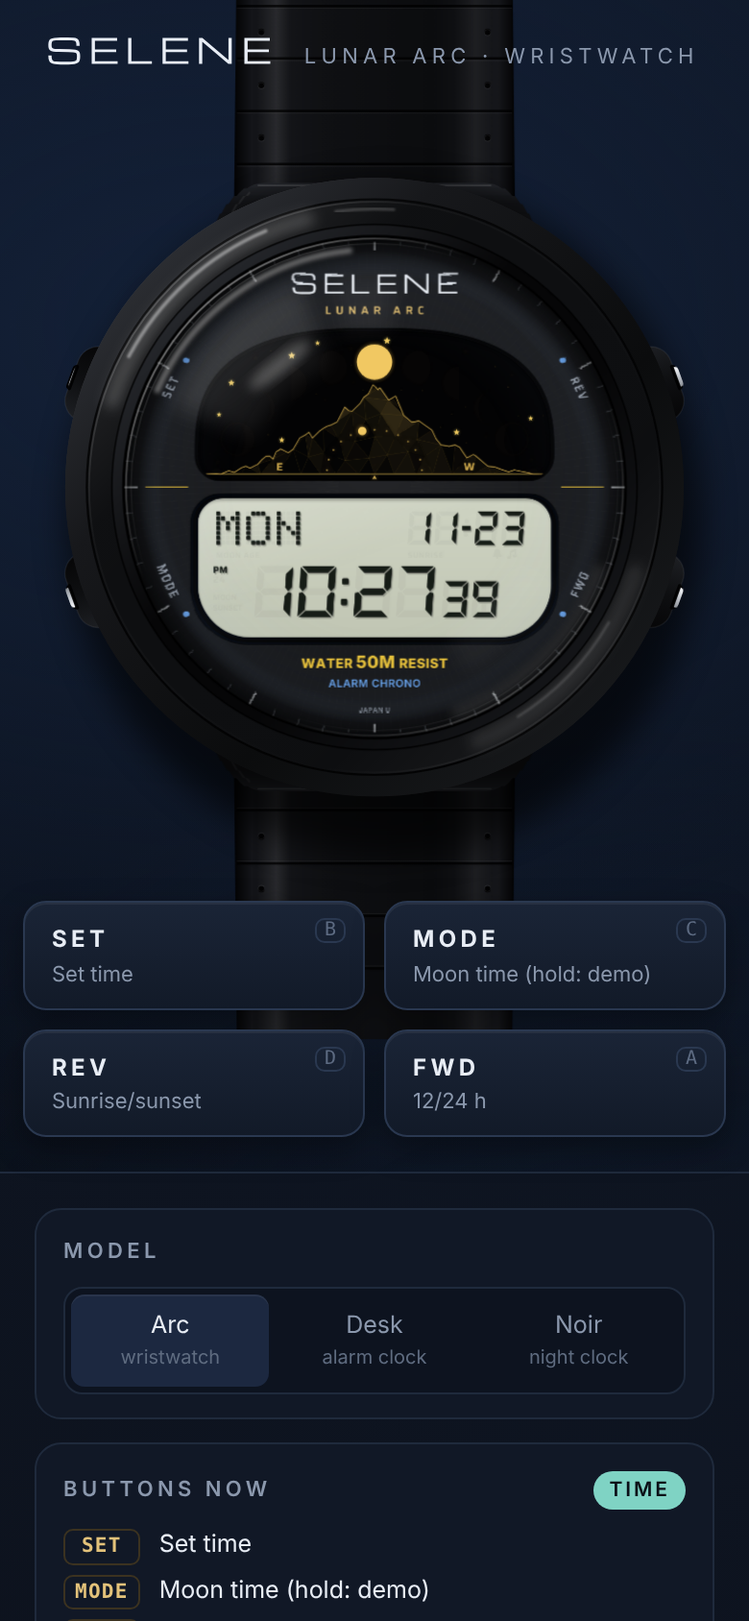
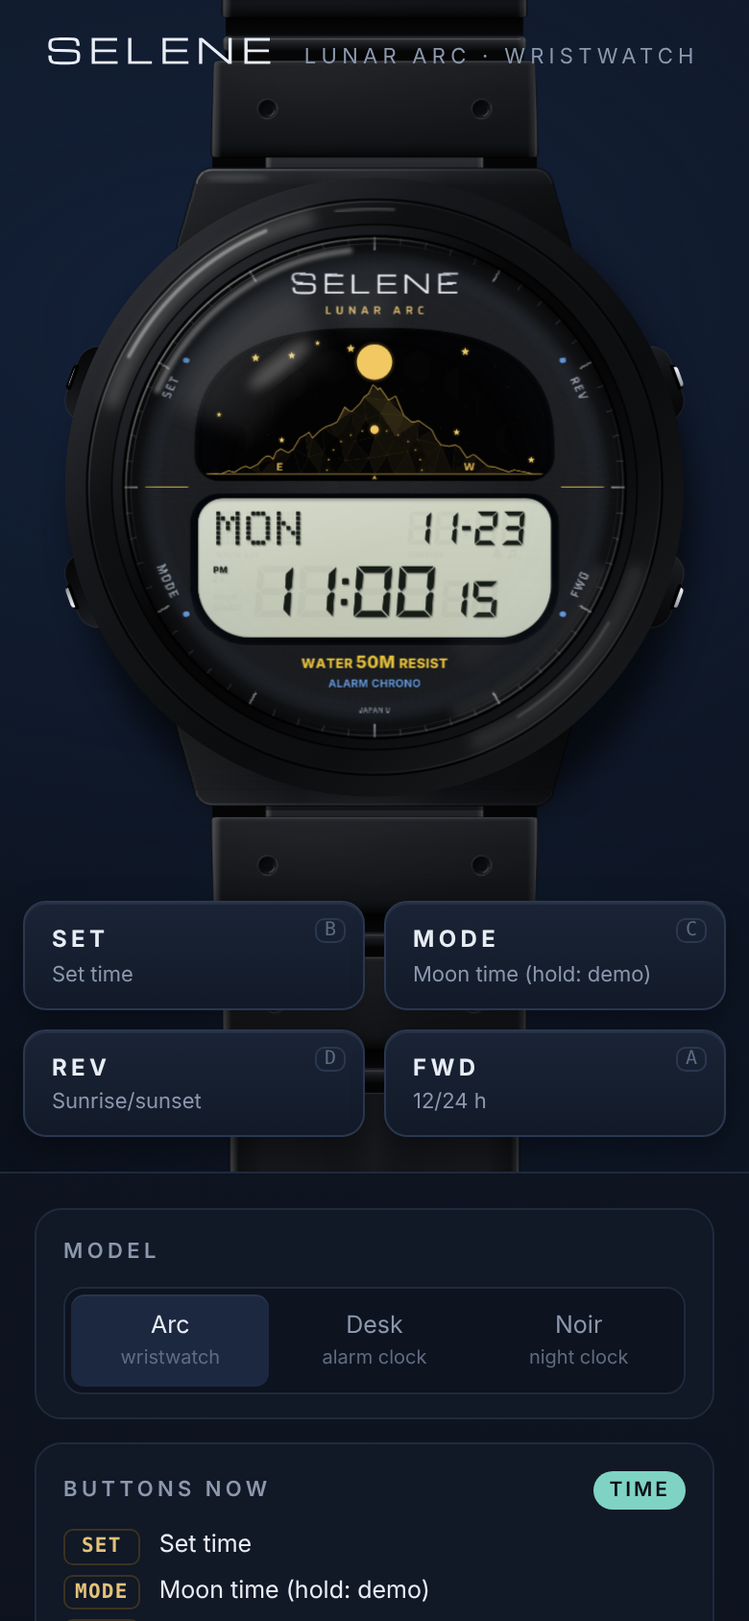
Web watch: lugs and band rebuilt from a photo of the real watch
Lugs:
- broad blocks top and bottom (524 wide, rounded outer corners, sides
  flaring into the case), standing 28 proud of the case like the original
- drawn as 14 thin parallel slices per lug, stepping ~3 px from the case
  (z 0) to the band (z -44); slices are small, clipped to their strip, and
  never intersect other layers (tilted planes broke Chrome's 3D sorting)

Band, per strap from the lug outward: narrow tab, wide dimpled pad, joint
(shadowed channel, rounded rib, thin groove), second pad, joint, flat strap
with round and oval through-holes; lit from above, concave dimples. Widths
and lengths measured off the photo. The watch's drop shadow moves to the
band layer; the band is kept short enough for GPU texture limits and the
stage clips overflow so the page never scrolls.

Claude-Session: https://claude.ai/code/session_013ungtZWuFc7hHZrkieKASF

diff --git a/dist/index.html b/dist/index.html
@@ -26,7 +26,7 @@ header.top{position:absolute;left:24px;top:18px;display:flex;align-items:center;
 header.top svg{height:18px;width:auto}
 header.top .tag{font-size:11px;letter-spacing:.24em;color:var(--mute);text-transform:uppercase}
 /* ------------------------------------------------ stage */
-.stage{position:relative;display:flex;flex-direction:column;align-items:center;justify-content:center;padding:64px 24px 28px;min-height:100vh;gap:18px}
+.stage{position:relative;display:flex;flex-direction:column;align-items:center;justify-content:center;padding:64px 24px 28px;min-height:100vh;gap:18px;overflow:hidden}
 .device-wrap{perspective:1400px;width:min(100%,560px)}
 .device{position:relative;transform-style:preserve-3d;transition:transform .5s cubic-bezier(.2,.7,.2,1);will-change:transform}
 .device svg{display:block;width:100%;height:auto;overflow:visible}
@@ -2028,49 +2028,139 @@ ${svgOpen('segs', vb, 'aria-hidden="true"')}<defs>${clip('segClip')}
   }
 
 
+  // ---- band and lugs, after the original watch (measured off a photo; units are the drawing's, case radius 440) ----
+  const BAND_Z = 44; // px the band sits behind the case; matches .device .band in app.css
+  // Each strap, from the lug outward: a narrow tab, a wide dimpled pad, a joint, a second pad, a joint, the flat
+  // strap. hw: half-width at the lug end and the far end; dx: dimple offset from the centre line. Joints are a
+  // shadowed channel, a rounded rib and a thin groove, in that order down the picture on both straps (light from above).
+  const STRAP = [
+    { k: 'tab', len: 16, hw: [160, 160] },
+    { k: 'pad', len: 142, hw: [240, 236], dx: 157 },
+    { k: 'joint', len: 63 },
+    { k: 'pad', len: 136, hw: [224, 222], dx: 146 },
+    { k: 'joint', len: 63 },
+    { k: 'flat', len: 560, hw: [213, 213] }, // enough to reach the edge of a tall window; kept short for the GPU
+  ];
+  const LUG = { tip: 312, base: 452 }; // top lug: outer edge (at the band's depth), and where it meets the case (z 0)
+
+  // a concave dimple lit from the upper left: shadowed upper-left wall, lit lower-right wall, a light outer rim
+  const dimpleSvg = (x, y) => `<circle cx="${x}" cy="${y}" r="14.5" fill="none" stroke="url(#dimRim)" stroke-width="2.2"/><circle cx="${x}" cy="${y}" r="13" fill="url(#dimG)"/>
+<circle cx="${x + 1.2}" cy="${y + 1.2}" r="6.5" fill="#0b0c0e"/><path d="M${x + 3} ${y + 10.3}A10.8 10.8 0 0 0 ${x + 10.3} ${y + 3}" fill="none" stroke="#fff" stroke-opacity=".2" stroke-width="1.6" stroke-linecap="round"/>`;
+
+  /** One strap. edge: y of the lug's outer edge; dir: -1 runs up, +1 runs down; holes: [distance, kind] on the flat part.
+   *  Returns [art, through-hole mask shapes]. */
+  function strapSvg(cx, edge, dir, holes) {
+    let y = edge, out = '', mask = '';
+    const els = STRAP.map((e) => { const a = y; y += dir * e.len; return { ...e, y0: Math.min(a, y), y1: Math.max(a, y) }; });
+    els.forEach((e, i) => { if (e.k === 'joint') e.hw = [Math.min(els[i - 1].hw[1], els[i + 1].hw[0])]; });
+    const X = (v) => +(cx + v).toFixed(1), line = (x0, x1, yy, o, w) => `<path d="M${X(x0)} ${yy}H${X(x1)}" stroke="#fff" stroke-opacity="${o}" stroke-width="${w}"/>`;
+    for (const e of els) {
+      const n = e.hw.length - 1, top = dir < 0 ? e.hw[n] : e.hw[0], bot = dir < 0 ? e.hw[0] : e.hw[n], y0 = e.y0, y1 = e.y1;
+      if (e.k === 'tab') {
+        // the tab runs on under the lug; beside it, between the pad and the lug, is the shadowed recess under the lug
+        const a = dir < 0 ? y0 : y0 - 18, b = dir < 0 ? y1 + 18 : y1, wide = els[1].hw[0] - 2;
+        out += `<rect x="${X(-wide)}" y="${y0}" width="${2 * wide}" height="${e.len}" fill="#050506"/>
+<rect x="${X(-top)}" y="${a}" width="${2 * top}" height="${b - a}" fill="url(#tabG)"/><rect x="${X(-top)}" y="${a}" width="${2 * top}" height="${b - a}" fill="url(#bandSide)"/>`;
+        if (dir > 0) out += `<rect x="${X(-top)}" y="${edge}" width="${2 * top}" height="6" fill="#000" fill-opacity=".45"/>`;
+      } else if (e.k === 'pad') {
+        const r = 7, d = `M${X(-top + r)} ${y0}H${X(top - r)}Q${X(top)} ${y0} ${X(top)} ${y0 + r}L${X(bot)} ${y1 - r}Q${X(bot)} ${y1} ${X(bot - r)} ${y1}H${X(-bot + r)}Q${X(-bot)} ${y1} ${X(-bot)} ${y1 - r}L${X(-top)} ${y0 + r}Q${X(-top)} ${y0} ${X(-top + r)} ${y0}Z`;
+        out += `<path d="${d}" fill="url(#padG)"/><path d="${d}" fill="url(#padSheen)"/><path d="${d}" fill="url(#bandSide)"/>${line(-top + 8, top - 8, y0 + 1.6, 0.16, 1.5)}
+<path d="${d}" fill="none" stroke="#000" stroke-opacity=".55" stroke-width="1.2"/>${dimpleSvg(X(-e.dx), (y0 + y1) / 2)}${dimpleSvg(X(e.dx), (y0 + y1) / 2)}`;
+      } else if (e.k === 'joint') {
+        const w = e.hw[0];
+        out += `<rect x="${X(-w + 6)}" y="${y0}" width="${2 * w - 12}" height="27.5" fill="url(#chanG)"/>
+<rect x="${X(-w + 1)}" y="${y0 + 27}" width="${2 * w - 2}" height="22" rx="9" fill="url(#ribG)"/><rect x="${X(-w + 1)}" y="${y0 + 27}" width="${2 * w - 2}" height="22" rx="9" fill="url(#bandSide)"/>
+${line(-w + 10, w - 10, y0 + 31.5, 0.2, 1.5)}<rect x="${X(-w + 5)}" y="${y0 + 48.5}" width="${2 * w - 10}" height="${y1 - y0 - 48.5}" fill="#060607"/>`;
+      } else { // flat strap: a slightly convex surface, with a soft sheen and the holes
+        const w = e.hw[0];
+        out += `<rect x="${X(-w)}" y="${y0}" width="${2 * w}" height="${y1 - y0}" rx="8" fill="url(#flatG)"/><rect x="${X(-w)}" y="${y0}" width="${2 * w}" height="${y1 - y0}" rx="8" fill="url(#bandSide)"/>
+<rect x="${X(-w)}" y="${y0}" width="${2 * w}" height="${y1 - y0}" rx="8" fill="none" stroke="#000" stroke-opacity=".55" stroke-width="1.2"/>`;
+        if (dir > 0) out += line(-w + 8, w - 8, y0 + 1.6, 0.11, 1.4);
+        for (const [dist, kind] of holes) {
+          const hy = edge + dir * dist, rx = kind === 'oval' ? 50 : 19, ry = kind === 'oval' ? 28 : 19;
+          for (const hx of kind === 'oval' ? [0] : [-119, 119]) {
+            mask += `<ellipse cx="${X(hx)}" cy="${hy}" rx="${rx}" ry="${ry}" fill="#000"/>`;
+            out += `<ellipse cx="${X(hx)}" cy="${hy}" rx="${rx + 2}" ry="${ry + 2}" fill="none" stroke="#000" stroke-opacity=".55" stroke-width="3"/>
+<path d="M${X(hx - rx * 0.82)} ${hy + ry * 0.62}A${rx + 2} ${ry + 2} 0 0 0 ${X(hx + rx * 0.82)} ${hy + ry * 0.62}" fill="none" stroke="#fff" stroke-opacity=".14" stroke-width="1.8" stroke-linecap="round"/>`;
+          }
+        }
+      }
+    }
+    return [out, mask];
+  }
+
+  function bandLayer(vb, cx, cy) {
+    const [t, tm] = strapSvg(cx, LUG.tip, -1, [[671, 'round']]);
+    const [b, bm] = strapSvg(cx, 2 * cy - LUG.tip, 1, [[679, 'round'], [763, 'oval'], [923, 'oval']]);
+    const reach = STRAP.reduce((n, e) => n + e.len, 0) + 4, my = LUG.tip - reach, mh = 2 * cy - 2 * LUG.tip + 2 * reach;
+    return `${svgOpen('band', vb, 'aria-hidden="true"')}<defs>
+<filter id="bandSoft" x="-30%" y="-30%" width="160%" height="160%"><feGaussianBlur stdDeviation="24"/></filter>
+<linearGradient id="padG" x1="0" y1="0" x2="0" y2="1"><stop offset="0" stop-color="#2b2d32"/><stop offset=".055" stop-color="#1d1e22"/><stop offset=".3" stop-color="#18191d"/><stop offset=".86" stop-color="#121316"/><stop offset=".94" stop-color="#0c0d0f"/><stop offset="1" stop-color="#060607"/></linearGradient>
+<radialGradient id="padSheen" cx=".3" cy=".25" r=".75"><stop offset="0" stop-color="#fff" stop-opacity=".035"/><stop offset="1" stop-color="#fff" stop-opacity="0"/></radialGradient>
+<linearGradient id="dimG" x1="0" y1="0" x2="1" y2="1"><stop offset="0" stop-color="#030304"/><stop offset=".55" stop-color="#0d0e10"/><stop offset="1" stop-color="#2a2c31"/></linearGradient>
+<linearGradient id="dimRim" x1="0" y1="0" x2="1" y2="1"><stop offset="0" stop-color="#fff" stop-opacity=".1"/><stop offset=".5" stop-color="#fff" stop-opacity=".02"/><stop offset="1" stop-color="#000" stop-opacity=".5"/></linearGradient>
+<linearGradient id="bandSide" x1="0" x2="1"><stop offset="0" stop-color="#000" stop-opacity=".6"/><stop offset=".011" stop-color="#fff" stop-opacity=".17"/><stop offset=".032" stop-color="#fff" stop-opacity="0"/><stop offset=".968" stop-color="#fff" stop-opacity="0"/><stop offset=".989" stop-color="#fff" stop-opacity=".1"/><stop offset="1" stop-color="#000" stop-opacity=".6"/></linearGradient>
+<linearGradient id="chanG" x1="0" y1="0" x2="0" y2="1"><stop offset="0" stop-color="#030304"/><stop offset=".7" stop-color="#070708"/><stop offset="1" stop-color="#0c0d0f"/></linearGradient>
+<linearGradient id="ribG" x1="0" y1="0" x2="0" y2="1"><stop offset="0" stop-color="#1c1d21"/><stop offset=".22" stop-color="#2e3035"/><stop offset=".5" stop-color="#1c1d21"/><stop offset="1" stop-color="#08090a"/></linearGradient>
+<linearGradient id="tabG" x1="0" y1="0" x2="0" y2="1"><stop offset="0" stop-color="#2c2e33"/><stop offset="1" stop-color="#1e2024"/></linearGradient>
+<linearGradient id="flatG" x1="0" x2="1"><stop offset="0" stop-color="#0d0e10"/><stop offset=".12" stop-color="#17181c"/><stop offset=".42" stop-color="#141519"/><stop offset=".5" stop-color="#191a1e"/><stop offset=".58" stop-color="#141519"/><stop offset=".88" stop-color="#17181c"/><stop offset="1" stop-color="#0d0e10"/></linearGradient>
+${lugArt(cx, cy, 1)}${lugArt(cx, cy, -1)}
+<mask id="bandHoles" maskUnits="userSpaceOnUse" x="${cx - 250}" y="${my}" width="500" height="${mh}"><rect x="${cx - 250}" y="${my}" width="500" height="${mh}" fill="#fff"/>${tm}${bm}</mask>
+</defs>
+<ellipse cx="${cx + 14}" cy="${cy + 46}" rx="452" ry="480" fill="#000" opacity=".6" filter="url(#bandSoft)"/>
+<g mask="url(#bandHoles)">${t}${b}</g></svg>`;
+  }
+
+  /** One lug's artwork (s: 1 = top, -1 = bottom, mirrored about the case centre), as a <g> the depth slices reuse.
+   *  Only the part outside the case is drawn. */
+  function lugArt(cx, cy, s) {
+    const id = s > 0 ? 't' : 'b', Y = (y) => +(cy + s * (y - cy)).toFixed(1);
+    const d = `M207 ${Y(470)}L218 ${Y(438)}L238 ${Y(336)}C238 ${Y(322.7)} 248.7 ${Y(312)} 262 ${Y(312)}H738C751.3 ${Y(312)} 762 ${Y(322.7)} 762 ${Y(336)}L782 ${Y(438)}L793 ${Y(470)}Z`;
+    const edge = `M241 ${Y(338)}C241 ${Y(325.3)} 250.4 ${Y(315)} 262 ${Y(315)}H738C749.6 ${Y(315)} 759 ${Y(325.3)} 759 ${Y(338)}`;
+    // the top lug's face tilts toward the light and reads lighter; the bottom one tilts away
+    const face = s > 0 ? ['#26282d', '#17181b', '#0c0d0f'] : ['#16171a', '#101114', '#0a0b0c'];
+    return `<clipPath id="lugOut${id}"><path clip-rule="evenodd" d="M0 -200H1000V1800H0ZM${cx - 437} ${cy}a437 437 0 1 0 874 0a437 437 0 1 0 -874 0Z"/></clipPath>
+<linearGradient id="lugF${id}" gradientUnits="userSpaceOnUse" x1="0" y1="${Y(312)}" x2="0" y2="${Y(470)}"><stop offset="0" stop-color="${face[0]}"/><stop offset=".2" stop-color="${face[1]}"/><stop offset="1" stop-color="${face[2]}"/></linearGradient>
+<linearGradient id="lugH${id}" gradientUnits="userSpaceOnUse" x1="238" y1="0" x2="762" y2="0"><stop offset="0" stop-color="#fff" stop-opacity=".06"/><stop offset=".3" stop-color="#fff" stop-opacity=".012"/><stop offset=".7" stop-color="#000" stop-opacity=".1"/><stop offset="1" stop-color="#000" stop-opacity=".28"/></linearGradient>
+<linearGradient id="lugE${id}" gradientUnits="userSpaceOnUse" x1="238" y1="0" x2="762" y2="0"><stop offset="0" stop-color="#fff" stop-opacity="${s > 0 ? 0.34 : 0.13}"/><stop offset=".45" stop-color="#fff" stop-opacity="${s > 0 ? 0.13 : 0.05}"/><stop offset="1" stop-color="#fff" stop-opacity="${s > 0 ? 0.07 : 0.03}"/></linearGradient>
+<filter id="lugSoft${id}" x="-50%" y="-200%" width="200%" height="500%"><feGaussianBlur stdDeviation="3"/></filter>
+<g id="lugArt${id}" clip-path="url(#lugOut${id})">
+<path d="${d}" fill="url(#lugF${id})"/><path d="${d}" fill="url(#lugH${id})"/>
+<path d="${edge}" fill="none" stroke="url(#lugE${id})" stroke-width="1.7" stroke-linecap="round"/>
+<path d="M240.4 ${Y(342)}L220.6 ${Y(434)}" stroke="#fff" stroke-opacity="${s > 0 ? 0.09 : 0.04}" stroke-width="2" stroke-linecap="round"/>
+${s > 0 ? `<ellipse cx="300" cy="${Y(327)}" rx="46" ry="6" fill="#fff" fill-opacity=".11" filter="url(#lugSoft${id})"/>` : ''}
+<path d="${d}" fill="none" stroke="#000" stroke-opacity=".6" stroke-width="1.2"/></g>`;
+  }
+  /** The lugs as thin horizontal slices, each a small layer a little deeper than the one nearer the case: depth runs
+   *  from the case (z 0, at LUG.base) to the band (z -BAND_Z, at the lug's outer edge) in ~3 px steps, too fine to see.
+   *  Parallel slices never intersect the other layers, which keeps every browser's 3D sorting simple. */
+  function lugSlices(vb, cy) {
+    const [, vy, , vh] = vb.split(' ').map(Number), N = 14, y0 = LUG.tip - 3, h = (LUG.base - y0) / N;
+    let out = '';
+    for (let k = 0; k < N; k++) {
+      const a = y0 + k * h, z = -BAND_Z * Math.min(1, (LUG.base - (a + h / 2)) / (LUG.base - LUG.tip));
+      for (const [id, top] of [['t', a], ['b', 2 * cy - a - h]]) {
+        const t = top - 0.6, hh = h + 1.2; // a little overlap hides the seams between slices
+        out += `<svg class="L lug" viewBox="195 ${t.toFixed(2)} 610 ${hh.toFixed(2)}" xmlns="http://www.w3.org/2000/svg" aria-hidden="true" style="left:19.5%;top:${((t - vy) / vh * 100).toFixed(4)}%;width:61%;height:${(hh / vh * 100).toFixed(4)}%;overflow:hidden;transform:translateZ(${z.toFixed(2)}px)"><use href="#lugArt${id}"/></svg>`;
+      }
+    }
+    return out;
+  }
+
   function watchLayers(face) {
     const vb = '0 240 1000 1080', cx = 500, cy = 780, Rc = 440, Ra = 356, Rf = 368, Rs = Rc - 30;
-    // band in the original's style: smooth glossy resin, broad segments with bevelled joints and a small dimple near
-    // each edge of every segment (drawn for the top strap; the bottom one is its mirror image)
-    let joints = '', jointHi = '', dimples = '';
-    for (const y of [74, 151, 228, 306]) { joints += `M298 ${y}H702`; jointHi += `M298 ${y + 3.2}H702`; }
-    for (const y of [36, 112, 190, 267]) for (const x of [334, 666]) dimples += `<circle cx="${x}" cy="${y}" r="4.6" fill="#030304"/><circle cx="${x}" cy="${y + 1.2}" r="4.6" fill="none" stroke="#fff" stroke-opacity=".09" stroke-width="1.1"/>`;
-    const strap = `<path d="M298 -30H702L706 360H294Z" fill="url(#strapG)"/>
-<path d="M298 -30H702L706 360H294Z" fill="url(#strapGloss)"/>
-<path d="${joints}" stroke="#000" stroke-opacity=".75" stroke-width="3.6"/>
-<path d="${jointHi}" stroke="#fff" stroke-opacity=".07" stroke-width="1.4"/>
-${dimples}`;
-    const lugs = `<path d="M244 610C244 462 274 374 312 344Q323 335 338 335H662Q677 335 688 344C726 374 756 462 756 610Z" fill="url(#lugG)"/>
-<path d="M330 338.5H670" stroke="#fff" stroke-opacity=".13" stroke-width="2.5" stroke-linecap="round"/>
-<path d="M262 520C270 440 292 380 318 352" fill="none" stroke="#fff" stroke-opacity=".07" stroke-width="3" stroke-linecap="round"/>`;
     const Rm = (Rs - 2 + Ra + 16) / 2, Wm = Rs - 2 - (Ra + 16);
-    // the band is its own layer, a little behind the displays, so it slides the most as the watch tilts
-    const band = `${svgOpen('band', vb, 'aria-hidden="true"')}<defs>
-<linearGradient id="strapG" x1="0" x2="1"><stop offset="0" stop-color="#030304"/><stop offset=".06" stop-color="#141519"/><stop offset=".3" stop-color="#0c0d10"/><stop offset=".7" stop-color="#0b0c0e"/><stop offset=".94" stop-color="#16171b"/><stop offset="1" stop-color="#030304"/></linearGradient>
-<linearGradient id="strapGloss" x1="0" x2="1"><stop offset=".08" stop-color="#fff" stop-opacity="0"/><stop offset=".15" stop-color="#fff" stop-opacity=".1"/><stop offset=".2" stop-color="#fff" stop-opacity=".02"/><stop offset=".78" stop-color="#fff" stop-opacity="0"/><stop offset=".86" stop-color="#fff" stop-opacity=".05"/><stop offset=".92" stop-color="#fff" stop-opacity="0"/></linearGradient>
-</defs><g>${strap}</g><g transform="translate(0 ${2 * cy}) scale(1 -1)">${strap}</g></svg>`;
-    // lugs: drawn in slices across the strip where they meet the band, each a little deeper toward the band, so the
-    // lugs carry the parallax from the case (0) down to the band (-44). Slices overlap by a few units to hide seams.
-    const lugCuts = [[300, 348, -40], [345, 362, -31], [359, 376, -22], [373, 392, -13], [389, 430, -5]];
-    const lugLayers = lugCuts.map(([y0, y1, z], k) => `${svgOpen('lug', vb, `aria-hidden="true" style="transform:translateZ(${z}px)"`)}<defs>
-<linearGradient id="lugG${k}" x1="0" y1="0" x2="0" y2="1"><stop offset="0" stop-color="#24262b"/><stop offset=".12" stop-color="#131417"/><stop offset="1" stop-color="#0a0b0d"/></linearGradient>
-<clipPath id="lugCut${k}"><rect x="0" y="${y0}" width="1000" height="${y1 - y0}"/><rect x="0" y="${2 * cy - y1}" width="1000" height="${y1 - y0}"/></clipPath></defs>
-<g clip-path="url(#lugCut${k})"><g>${lugs.replace(/url\(#lugG\)/g, `url(#lugG${k})`)}</g><g transform="translate(0 ${2 * cy}) scale(1 -1)">${lugs.replace(/url\(#lugG\)/g, `url(#lugG${k})`)}</g></g></svg>`).join('');
-    return `${band}${lugLayers}${svgOpen('body', vb, 'aria-label="Selene Arc watch"')}<defs>
+    return `${bandLayer(vb, cx, cy)}${lugSlices(vb, cy)}${svgOpen('body', vb, 'aria-label="Selene Arc watch"')}<defs>
 ${holeClip(cx, cy, Ra + 9)}
-<filter id="soft" x="-30%" y="-30%" width="160%" height="160%"><feGaussianBlur stdDeviation="24"/></filter>
 <filter id="bb2" x="-20%" y="-20%" width="140%" height="140%"><feGaussianBlur stdDeviation="1.6"/></filter>
 <filter id="bb9" x="-30%" y="-30%" width="160%" height="160%"><feGaussianBlur stdDeviation="9"/></filter>
 <linearGradient id="slopeG" x1="0" y1="0" x2="1" y2="1"><stop offset="0" stop-color="#3a3d43"/><stop offset=".3" stop-color="#17181b"/><stop offset=".62" stop-color="#0b0c0d"/><stop offset="1" stop-color="#1c1e21"/></linearGradient>
-<linearGradient id="strapG" x1="0" x2="1"><stop offset="0" stop-color="#040405"/><stop offset=".07" stop-color="#17191d"/><stop offset=".3" stop-color="#101114"/><stop offset=".7" stop-color="#0f1013"/><stop offset=".93" stop-color="#191b1f"/><stop offset="1" stop-color="#040405"/></linearGradient>
-<linearGradient id="lugG" x1="0" y1="0" x2="0" y2="1"><stop offset="0" stop-color="#24262b"/><stop offset=".12" stop-color="#131417"/><stop offset="1" stop-color="#0a0b0d"/></linearGradient>
 <linearGradient id="guardG" x1="0" y1="0" x2="0" y2="1"><stop offset="0" stop-color="#1d1f23"/><stop offset=".5" stop-color="#0e0f11"/><stop offset="1" stop-color="#060607"/></linearGradient>
 <radialGradient id="caseG" cx="38%" cy="28%" r="80%"><stop offset="0" stop-color="#26282d"/><stop offset=".55" stop-color="#111215"/><stop offset="1" stop-color="#060607"/></radialGradient>
 <linearGradient id="chamG" x1="0" y1="0" x2="1" y2="1"><stop offset="0" stop-color="#fff" stop-opacity=".3"/><stop offset=".3" stop-color="#fff" stop-opacity=".03"/><stop offset=".7" stop-color="#fff" stop-opacity="0"/><stop offset="1" stop-color="#fff" stop-opacity=".12"/></linearGradient>
 <linearGradient id="glossG" x1="0" y1="0" x2="1" y2="1"><stop offset="0" stop-color="#fff" stop-opacity=".17"/><stop offset=".28" stop-color="#fff" stop-opacity=".015"/><stop offset=".72" stop-color="#fff" stop-opacity=".01"/><stop offset="1" stop-color="#fff" stop-opacity=".09"/></linearGradient>
 <linearGradient id="steelV" x1="0" y1="0" x2="0" y2="1"><stop offset="0" stop-color="#f4f6f8"/><stop offset=".45" stop-color="#aab1bb"/><stop offset="1" stop-color="#565c66"/></linearGradient>
 </defs><g clip-path="url(#bodyHole)">
-<ellipse cx="${cx + 14}" cy="${cy + 46}" rx="452" ry="480" fill="#000" opacity=".6" filter="url(#soft)"/>
 ${pusher('B', 200, cx, cy, Rc, 1.5)}${pusher('C', 160, cx, cy, Rc)}${pusher('D', -20, cx, cy, Rc)}${pusher('A', 20, cx, cy, Rc)}
 <circle cx="${cx}" cy="${cy}" r="${Rc}" fill="url(#caseG)"/>
 <circle cx="${cx}" cy="${cy}" r="${Rc - 1.5}" fill="none" stroke="url(#chamG)" stroke-width="3"/>

diff --git a/web/app.js b/web/app.js
@@ -179,49 +179,139 @@ ${svgOpen('segs', vb, 'aria-hidden="true"')}<defs>${clip('segClip')}
   }
 
 
+  // ---- band and lugs, after the original watch (measured off a photo; units are the drawing's, case radius 440) ----
+  const BAND_Z = 44; // px the band sits behind the case; matches .device .band in app.css
+  // Each strap, from the lug outward: a narrow tab, a wide dimpled pad, a joint, a second pad, a joint, the flat
+  // strap. hw: half-width at the lug end and the far end; dx: dimple offset from the centre line. Joints are a
+  // shadowed channel, a rounded rib and a thin groove, in that order down the picture on both straps (light from above).
+  const STRAP = [
+    { k: 'tab', len: 16, hw: [160, 160] },
+    { k: 'pad', len: 142, hw: [240, 236], dx: 157 },
+    { k: 'joint', len: 63 },
+    { k: 'pad', len: 136, hw: [224, 222], dx: 146 },
+    { k: 'joint', len: 63 },
+    { k: 'flat', len: 560, hw: [213, 213] }, // enough to reach the edge of a tall window; kept short for the GPU
+  ];
+  const LUG = { tip: 312, base: 452 }; // top lug: outer edge (at the band's depth), and where it meets the case (z 0)
+
+  // a concave dimple lit from the upper left: shadowed upper-left wall, lit lower-right wall, a light outer rim
+  const dimpleSvg = (x, y) => `<circle cx="${x}" cy="${y}" r="14.5" fill="none" stroke="url(#dimRim)" stroke-width="2.2"/><circle cx="${x}" cy="${y}" r="13" fill="url(#dimG)"/>
+<circle cx="${x + 1.2}" cy="${y + 1.2}" r="6.5" fill="#0b0c0e"/><path d="M${x + 3} ${y + 10.3}A10.8 10.8 0 0 0 ${x + 10.3} ${y + 3}" fill="none" stroke="#fff" stroke-opacity=".2" stroke-width="1.6" stroke-linecap="round"/>`;
+
+  /** One strap. edge: y of the lug's outer edge; dir: -1 runs up, +1 runs down; holes: [distance, kind] on the flat part.
+   *  Returns [art, through-hole mask shapes]. */
+  function strapSvg(cx, edge, dir, holes) {
+    let y = edge, out = '', mask = '';
+    const els = STRAP.map((e) => { const a = y; y += dir * e.len; return { ...e, y0: Math.min(a, y), y1: Math.max(a, y) }; });
+    els.forEach((e, i) => { if (e.k === 'joint') e.hw = [Math.min(els[i - 1].hw[1], els[i + 1].hw[0])]; });
+    const X = (v) => +(cx + v).toFixed(1), line = (x0, x1, yy, o, w) => `<path d="M${X(x0)} ${yy}H${X(x1)}" stroke="#fff" stroke-opacity="${o}" stroke-width="${w}"/>`;
+    for (const e of els) {
+      const n = e.hw.length - 1, top = dir < 0 ? e.hw[n] : e.hw[0], bot = dir < 0 ? e.hw[0] : e.hw[n], y0 = e.y0, y1 = e.y1;
+      if (e.k === 'tab') {
+        // the tab runs on under the lug; beside it, between the pad and the lug, is the shadowed recess under the lug
+        const a = dir < 0 ? y0 : y0 - 18, b = dir < 0 ? y1 + 18 : y1, wide = els[1].hw[0] - 2;
+        out += `<rect x="${X(-wide)}" y="${y0}" width="${2 * wide}" height="${e.len}" fill="#050506"/>
+<rect x="${X(-top)}" y="${a}" width="${2 * top}" height="${b - a}" fill="url(#tabG)"/><rect x="${X(-top)}" y="${a}" width="${2 * top}" height="${b - a}" fill="url(#bandSide)"/>`;
+        if (dir > 0) out += `<rect x="${X(-top)}" y="${edge}" width="${2 * top}" height="6" fill="#000" fill-opacity=".45"/>`;
+      } else if (e.k === 'pad') {
+        const r = 7, d = `M${X(-top + r)} ${y0}H${X(top - r)}Q${X(top)} ${y0} ${X(top)} ${y0 + r}L${X(bot)} ${y1 - r}Q${X(bot)} ${y1} ${X(bot - r)} ${y1}H${X(-bot + r)}Q${X(-bot)} ${y1} ${X(-bot)} ${y1 - r}L${X(-top)} ${y0 + r}Q${X(-top)} ${y0} ${X(-top + r)} ${y0}Z`;
+        out += `<path d="${d}" fill="url(#padG)"/><path d="${d}" fill="url(#padSheen)"/><path d="${d}" fill="url(#bandSide)"/>${line(-top + 8, top - 8, y0 + 1.6, 0.16, 1.5)}
+<path d="${d}" fill="none" stroke="#000" stroke-opacity=".55" stroke-width="1.2"/>${dimpleSvg(X(-e.dx), (y0 + y1) / 2)}${dimpleSvg(X(e.dx), (y0 + y1) / 2)}`;
+      } else if (e.k === 'joint') {
+        const w = e.hw[0];
+        out += `<rect x="${X(-w + 6)}" y="${y0}" width="${2 * w - 12}" height="27.5" fill="url(#chanG)"/>
+<rect x="${X(-w + 1)}" y="${y0 + 27}" width="${2 * w - 2}" height="22" rx="9" fill="url(#ribG)"/><rect x="${X(-w + 1)}" y="${y0 + 27}" width="${2 * w - 2}" height="22" rx="9" fill="url(#bandSide)"/>
+${line(-w + 10, w - 10, y0 + 31.5, 0.2, 1.5)}<rect x="${X(-w + 5)}" y="${y0 + 48.5}" width="${2 * w - 10}" height="${y1 - y0 - 48.5}" fill="#060607"/>`;
+      } else { // flat strap: a slightly convex surface, with a soft sheen and the holes
+        const w = e.hw[0];
+        out += `<rect x="${X(-w)}" y="${y0}" width="${2 * w}" height="${y1 - y0}" rx="8" fill="url(#flatG)"/><rect x="${X(-w)}" y="${y0}" width="${2 * w}" height="${y1 - y0}" rx="8" fill="url(#bandSide)"/>
+<rect x="${X(-w)}" y="${y0}" width="${2 * w}" height="${y1 - y0}" rx="8" fill="none" stroke="#000" stroke-opacity=".55" stroke-width="1.2"/>`;
+        if (dir > 0) out += line(-w + 8, w - 8, y0 + 1.6, 0.11, 1.4);
+        for (const [dist, kind] of holes) {
+          const hy = edge + dir * dist, rx = kind === 'oval' ? 50 : 19, ry = kind === 'oval' ? 28 : 19;
+          for (const hx of kind === 'oval' ? [0] : [-119, 119]) {
+            mask += `<ellipse cx="${X(hx)}" cy="${hy}" rx="${rx}" ry="${ry}" fill="#000"/>`;
+            out += `<ellipse cx="${X(hx)}" cy="${hy}" rx="${rx + 2}" ry="${ry + 2}" fill="none" stroke="#000" stroke-opacity=".55" stroke-width="3"/>
+<path d="M${X(hx - rx * 0.82)} ${hy + ry * 0.62}A${rx + 2} ${ry + 2} 0 0 0 ${X(hx + rx * 0.82)} ${hy + ry * 0.62}" fill="none" stroke="#fff" stroke-opacity=".14" stroke-width="1.8" stroke-linecap="round"/>`;
+          }
+        }
+      }
+    }
+    return [out, mask];
+  }
+
+  function bandLayer(vb, cx, cy) {
+    const [t, tm] = strapSvg(cx, LUG.tip, -1, [[671, 'round']]);
+    const [b, bm] = strapSvg(cx, 2 * cy - LUG.tip, 1, [[679, 'round'], [763, 'oval'], [923, 'oval']]);
+    const reach = STRAP.reduce((n, e) => n + e.len, 0) + 4, my = LUG.tip - reach, mh = 2 * cy - 2 * LUG.tip + 2 * reach;
+    return `${svgOpen('band', vb, 'aria-hidden="true"')}<defs>
+<filter id="bandSoft" x="-30%" y="-30%" width="160%" height="160%"><feGaussianBlur stdDeviation="24"/></filter>
+<linearGradient id="padG" x1="0" y1="0" x2="0" y2="1"><stop offset="0" stop-color="#2b2d32"/><stop offset=".055" stop-color="#1d1e22"/><stop offset=".3" stop-color="#18191d"/><stop offset=".86" stop-color="#121316"/><stop offset=".94" stop-color="#0c0d0f"/><stop offset="1" stop-color="#060607"/></linearGradient>
+<radialGradient id="padSheen" cx=".3" cy=".25" r=".75"><stop offset="0" stop-color="#fff" stop-opacity=".035"/><stop offset="1" stop-color="#fff" stop-opacity="0"/></radialGradient>
+<linearGradient id="dimG" x1="0" y1="0" x2="1" y2="1"><stop offset="0" stop-color="#030304"/><stop offset=".55" stop-color="#0d0e10"/><stop offset="1" stop-color="#2a2c31"/></linearGradient>
+<linearGradient id="dimRim" x1="0" y1="0" x2="1" y2="1"><stop offset="0" stop-color="#fff" stop-opacity=".1"/><stop offset=".5" stop-color="#fff" stop-opacity=".02"/><stop offset="1" stop-color="#000" stop-opacity=".5"/></linearGradient>
+<linearGradient id="bandSide" x1="0" x2="1"><stop offset="0" stop-color="#000" stop-opacity=".6"/><stop offset=".011" stop-color="#fff" stop-opacity=".17"/><stop offset=".032" stop-color="#fff" stop-opacity="0"/><stop offset=".968" stop-color="#fff" stop-opacity="0"/><stop offset=".989" stop-color="#fff" stop-opacity=".1"/><stop offset="1" stop-color="#000" stop-opacity=".6"/></linearGradient>
+<linearGradient id="chanG" x1="0" y1="0" x2="0" y2="1"><stop offset="0" stop-color="#030304"/><stop offset=".7" stop-color="#070708"/><stop offset="1" stop-color="#0c0d0f"/></linearGradient>
+<linearGradient id="ribG" x1="0" y1="0" x2="0" y2="1"><stop offset="0" stop-color="#1c1d21"/><stop offset=".22" stop-color="#2e3035"/><stop offset=".5" stop-color="#1c1d21"/><stop offset="1" stop-color="#08090a"/></linearGradient>
+<linearGradient id="tabG" x1="0" y1="0" x2="0" y2="1"><stop offset="0" stop-color="#2c2e33"/><stop offset="1" stop-color="#1e2024"/></linearGradient>
+<linearGradient id="flatG" x1="0" x2="1"><stop offset="0" stop-color="#0d0e10"/><stop offset=".12" stop-color="#17181c"/><stop offset=".42" stop-color="#141519"/><stop offset=".5" stop-color="#191a1e"/><stop offset=".58" stop-color="#141519"/><stop offset=".88" stop-color="#17181c"/><stop offset="1" stop-color="#0d0e10"/></linearGradient>
+${lugArt(cx, cy, 1)}${lugArt(cx, cy, -1)}
+<mask id="bandHoles" maskUnits="userSpaceOnUse" x="${cx - 250}" y="${my}" width="500" height="${mh}"><rect x="${cx - 250}" y="${my}" width="500" height="${mh}" fill="#fff"/>${tm}${bm}</mask>
+</defs>
+<ellipse cx="${cx + 14}" cy="${cy + 46}" rx="452" ry="480" fill="#000" opacity=".6" filter="url(#bandSoft)"/>
+<g mask="url(#bandHoles)">${t}${b}</g></svg>`;
+  }
+
+  /** One lug's artwork (s: 1 = top, -1 = bottom, mirrored about the case centre), as a <g> the depth slices reuse.
+   *  Only the part outside the case is drawn. */
+  function lugArt(cx, cy, s) {
+    const id = s > 0 ? 't' : 'b', Y = (y) => +(cy + s * (y - cy)).toFixed(1);
+    const d = `M207 ${Y(470)}L218 ${Y(438)}L238 ${Y(336)}C238 ${Y(322.7)} 248.7 ${Y(312)} 262 ${Y(312)}H738C751.3 ${Y(312)} 762 ${Y(322.7)} 762 ${Y(336)}L782 ${Y(438)}L793 ${Y(470)}Z`;
+    const edge = `M241 ${Y(338)}C241 ${Y(325.3)} 250.4 ${Y(315)} 262 ${Y(315)}H738C749.6 ${Y(315)} 759 ${Y(325.3)} 759 ${Y(338)}`;
+    // the top lug's face tilts toward the light and reads lighter; the bottom one tilts away
+    const face = s > 0 ? ['#26282d', '#17181b', '#0c0d0f'] : ['#16171a', '#101114', '#0a0b0c'];
+    return `<clipPath id="lugOut${id}"><path clip-rule="evenodd" d="M0 -200H1000V1800H0ZM${cx - 437} ${cy}a437 437 0 1 0 874 0a437 437 0 1 0 -874 0Z"/></clipPath>
+<linearGradient id="lugF${id}" gradientUnits="userSpaceOnUse" x1="0" y1="${Y(312)}" x2="0" y2="${Y(470)}"><stop offset="0" stop-color="${face[0]}"/><stop offset=".2" stop-color="${face[1]}"/><stop offset="1" stop-color="${face[2]}"/></linearGradient>
+<linearGradient id="lugH${id}" gradientUnits="userSpaceOnUse" x1="238" y1="0" x2="762" y2="0"><stop offset="0" stop-color="#fff" stop-opacity=".06"/><stop offset=".3" stop-color="#fff" stop-opacity=".012"/><stop offset=".7" stop-color="#000" stop-opacity=".1"/><stop offset="1" stop-color="#000" stop-opacity=".28"/></linearGradient>
+<linearGradient id="lugE${id}" gradientUnits="userSpaceOnUse" x1="238" y1="0" x2="762" y2="0"><stop offset="0" stop-color="#fff" stop-opacity="${s > 0 ? 0.34 : 0.13}"/><stop offset=".45" stop-color="#fff" stop-opacity="${s > 0 ? 0.13 : 0.05}"/><stop offset="1" stop-color="#fff" stop-opacity="${s > 0 ? 0.07 : 0.03}"/></linearGradient>
+<filter id="lugSoft${id}" x="-50%" y="-200%" width="200%" height="500%"><feGaussianBlur stdDeviation="3"/></filter>
+<g id="lugArt${id}" clip-path="url(#lugOut${id})">
+<path d="${d}" fill="url(#lugF${id})"/><path d="${d}" fill="url(#lugH${id})"/>
+<path d="${edge}" fill="none" stroke="url(#lugE${id})" stroke-width="1.7" stroke-linecap="round"/>
+<path d="M240.4 ${Y(342)}L220.6 ${Y(434)}" stroke="#fff" stroke-opacity="${s > 0 ? 0.09 : 0.04}" stroke-width="2" stroke-linecap="round"/>
+${s > 0 ? `<ellipse cx="300" cy="${Y(327)}" rx="46" ry="6" fill="#fff" fill-opacity=".11" filter="url(#lugSoft${id})"/>` : ''}
+<path d="${d}" fill="none" stroke="#000" stroke-opacity=".6" stroke-width="1.2"/></g>`;
+  }
+  /** The lugs as thin horizontal slices, each a small layer a little deeper than the one nearer the case: depth runs
+   *  from the case (z 0, at LUG.base) to the band (z -BAND_Z, at the lug's outer edge) in ~3 px steps, too fine to see.
+   *  Parallel slices never intersect the other layers, which keeps every browser's 3D sorting simple. */
+  function lugSlices(vb, cy) {
+    const [, vy, , vh] = vb.split(' ').map(Number), N = 14, y0 = LUG.tip - 3, h = (LUG.base - y0) / N;
+    let out = '';
+    for (let k = 0; k < N; k++) {
+      const a = y0 + k * h, z = -BAND_Z * Math.min(1, (LUG.base - (a + h / 2)) / (LUG.base - LUG.tip));
+      for (const [id, top] of [['t', a], ['b', 2 * cy - a - h]]) {
+        const t = top - 0.6, hh = h + 1.2; // a little overlap hides the seams between slices
+        out += `<svg class="L lug" viewBox="195 ${t.toFixed(2)} 610 ${hh.toFixed(2)}" xmlns="http://www.w3.org/2000/svg" aria-hidden="true" style="left:19.5%;top:${((t - vy) / vh * 100).toFixed(4)}%;width:61%;height:${(hh / vh * 100).toFixed(4)}%;overflow:hidden;transform:translateZ(${z.toFixed(2)}px)"><use href="#lugArt${id}"/></svg>`;
+      }
+    }
+    return out;
+  }
+
   function watchLayers(face) {
     const vb = '0 240 1000 1080', cx = 500, cy = 780, Rc = 440, Ra = 356, Rf = 368, Rs = Rc - 30;
-    // band in the original's style: smooth glossy resin, broad segments with bevelled joints and a small dimple near
-    // each edge of every segment (drawn for the top strap; the bottom one is its mirror image)
-    let joints = '', jointHi = '', dimples = '';
-    for (const y of [74, 151, 228, 306]) { joints += `M298 ${y}H702`; jointHi += `M298 ${y + 3.2}H702`; }
-    for (const y of [36, 112, 190, 267]) for (const x of [334, 666]) dimples += `<circle cx="${x}" cy="${y}" r="4.6" fill="#030304"/><circle cx="${x}" cy="${y + 1.2}" r="4.6" fill="none" stroke="#fff" stroke-opacity=".09" stroke-width="1.1"/>`;
-    const strap = `<path d="M298 -30H702L706 360H294Z" fill="url(#strapG)"/>
-<path d="M298 -30H702L706 360H294Z" fill="url(#strapGloss)"/>
-<path d="${joints}" stroke="#000" stroke-opacity=".75" stroke-width="3.6"/>
-<path d="${jointHi}" stroke="#fff" stroke-opacity=".07" stroke-width="1.4"/>
-${dimples}`;
-    const lugs = `<path d="M244 610C244 462 274 374 312 344Q323 335 338 335H662Q677 335 688 344C726 374 756 462 756 610Z" fill="url(#lugG)"/>
-<path d="M330 338.5H670" stroke="#fff" stroke-opacity=".13" stroke-width="2.5" stroke-linecap="round"/>
-<path d="M262 520C270 440 292 380 318 352" fill="none" stroke="#fff" stroke-opacity=".07" stroke-width="3" stroke-linecap="round"/>`;
     const Rm = (Rs - 2 + Ra + 16) / 2, Wm = Rs - 2 - (Ra + 16);
-    // the band is its own layer, a little behind the displays, so it slides the most as the watch tilts
-    const band = `${svgOpen('band', vb, 'aria-hidden="true"')}<defs>
-<linearGradient id="strapG" x1="0" x2="1"><stop offset="0" stop-color="#030304"/><stop offset=".06" stop-color="#141519"/><stop offset=".3" stop-color="#0c0d10"/><stop offset=".7" stop-color="#0b0c0e"/><stop offset=".94" stop-color="#16171b"/><stop offset="1" stop-color="#030304"/></linearGradient>
-<linearGradient id="strapGloss" x1="0" x2="1"><stop offset=".08" stop-color="#fff" stop-opacity="0"/><stop offset=".15" stop-color="#fff" stop-opacity=".1"/><stop offset=".2" stop-color="#fff" stop-opacity=".02"/><stop offset=".78" stop-color="#fff" stop-opacity="0"/><stop offset=".86" stop-color="#fff" stop-opacity=".05"/><stop offset=".92" stop-color="#fff" stop-opacity="0"/></linearGradient>
-</defs><g>${strap}</g><g transform="translate(0 ${2 * cy}) scale(1 -1)">${strap}</g></svg>`;
-    // lugs: drawn in slices across the strip where they meet the band, each a little deeper toward the band, so the
-    // lugs carry the parallax from the case (0) down to the band (-44). Slices overlap by a few units to hide seams.
-    const lugCuts = [[300, 348, -40], [345, 362, -31], [359, 376, -22], [373, 392, -13], [389, 430, -5]];
-    const lugLayers = lugCuts.map(([y0, y1, z], k) => `${svgOpen('lug', vb, `aria-hidden="true" style="transform:translateZ(${z}px)"`)}<defs>
-<linearGradient id="lugG${k}" x1="0" y1="0" x2="0" y2="1"><stop offset="0" stop-color="#24262b"/><stop offset=".12" stop-color="#131417"/><stop offset="1" stop-color="#0a0b0d"/></linearGradient>
-<clipPath id="lugCut${k}"><rect x="0" y="${y0}" width="1000" height="${y1 - y0}"/><rect x="0" y="${2 * cy - y1}" width="1000" height="${y1 - y0}"/></clipPath></defs>
-<g clip-path="url(#lugCut${k})"><g>${lugs.replace(/url\(#lugG\)/g, `url(#lugG${k})`)}</g><g transform="translate(0 ${2 * cy}) scale(1 -1)">${lugs.replace(/url\(#lugG\)/g, `url(#lugG${k})`)}</g></g></svg>`).join('');
-    return `${band}${lugLayers}${svgOpen('body', vb, 'aria-label="Selene Arc watch"')}<defs>
+    return `${bandLayer(vb, cx, cy)}${lugSlices(vb, cy)}${svgOpen('body', vb, 'aria-label="Selene Arc watch"')}<defs>
 ${holeClip(cx, cy, Ra + 9)}
-<filter id="soft" x="-30%" y="-30%" width="160%" height="160%"><feGaussianBlur stdDeviation="24"/></filter>
 <filter id="bb2" x="-20%" y="-20%" width="140%" height="140%"><feGaussianBlur stdDeviation="1.6"/></filter>
 <filter id="bb9" x="-30%" y="-30%" width="160%" height="160%"><feGaussianBlur stdDeviation="9"/></filter>
 <linearGradient id="slopeG" x1="0" y1="0" x2="1" y2="1"><stop offset="0" stop-color="#3a3d43"/><stop offset=".3" stop-color="#17181b"/><stop offset=".62" stop-color="#0b0c0d"/><stop offset="1" stop-color="#1c1e21"/></linearGradient>
-<linearGradient id="strapG" x1="0" x2="1"><stop offset="0" stop-color="#040405"/><stop offset=".07" stop-color="#17191d"/><stop offset=".3" stop-color="#101114"/><stop offset=".7" stop-color="#0f1013"/><stop offset=".93" stop-color="#191b1f"/><stop offset="1" stop-color="#040405"/></linearGradient>
-<linearGradient id="lugG" x1="0" y1="0" x2="0" y2="1"><stop offset="0" stop-color="#24262b"/><stop offset=".12" stop-color="#131417"/><stop offset="1" stop-color="#0a0b0d"/></linearGradient>
 <linearGradient id="guardG" x1="0" y1="0" x2="0" y2="1"><stop offset="0" stop-color="#1d1f23"/><stop offset=".5" stop-color="#0e0f11"/><stop offset="1" stop-color="#060607"/></linearGradient>
 <radialGradient id="caseG" cx="38%" cy="28%" r="80%"><stop offset="0" stop-color="#26282d"/><stop offset=".55" stop-color="#111215"/><stop offset="1" stop-color="#060607"/></radialGradient>
 <linearGradient id="chamG" x1="0" y1="0" x2="1" y2="1"><stop offset="0" stop-color="#fff" stop-opacity=".3"/><stop offset=".3" stop-color="#fff" stop-opacity=".03"/><stop offset=".7" stop-color="#fff" stop-opacity="0"/><stop offset="1" stop-color="#fff" stop-opacity=".12"/></linearGradient>
 <linearGradient id="glossG" x1="0" y1="0" x2="1" y2="1"><stop offset="0" stop-color="#fff" stop-opacity=".17"/><stop offset=".28" stop-color="#fff" stop-opacity=".015"/><stop offset=".72" stop-color="#fff" stop-opacity=".01"/><stop offset="1" stop-color="#fff" stop-opacity=".09"/></linearGradient>
 <linearGradient id="steelV" x1="0" y1="0" x2="0" y2="1"><stop offset="0" stop-color="#f4f6f8"/><stop offset=".45" stop-color="#aab1bb"/><stop offset="1" stop-color="#565c66"/></linearGradient>
 </defs><g clip-path="url(#bodyHole)">
-<ellipse cx="${cx + 14}" cy="${cy + 46}" rx="452" ry="480" fill="#000" opacity=".6" filter="url(#soft)"/>
 ${pusher('B', 200, cx, cy, Rc, 1.5)}${pusher('C', 160, cx, cy, Rc)}${pusher('D', -20, cx, cy, Rc)}${pusher('A', 20, cx, cy, Rc)}
 <circle cx="${cx}" cy="${cy}" r="${Rc}" fill="url(#caseG)"/>
 <circle cx="${cx}" cy="${cy}" r="${Rc - 1.5}" fill="none" stroke="url(#chamG)" stroke-width="3"/>

diff --git a/web/app.css b/web/app.css
@@ -17,7 +17,7 @@ header.top svg{height:18px;width:auto}
 header.top .tag{font-size:11px;letter-spacing:.24em;color:var(--mute);text-transform:uppercase}
 
 /* ------------------------------------------------ stage */
-.stage{position:relative;display:flex;flex-direction:column;align-items:center;justify-content:center;padding:64px 24px 28px;min-height:100vh;gap:18px}
+.stage{position:relative;display:flex;flex-direction:column;align-items:center;justify-content:center;padding:64px 24px 28px;min-height:100vh;gap:18px;overflow:hidden}
 .device-wrap{perspective:1400px;width:min(100%,560px)}
 .device{position:relative;transform-style:preserve-3d;transition:transform .5s cubic-bezier(.2,.7,.2,1);will-change:transform}
 .device svg{display:block;width:100%;height:auto;overflow:visible}

diff --git a/README.md b/README.md
@@ -48,6 +48,10 @@ marker lapping 24 steps while the phase advances every second tick, timekeeping 
 (or tilt a phone that reports orientation) and the reflections slide over the dial while the dial shifts under the
 bezel. The dome also stretches the print near the rim. *Settings → Domed crystal* switches it off.
 
+**The band and lugs are measured off a real watch.** Each strap has a narrow tab under the lug, two dimpled pads
+divided by grooved ribs, then the flat strap with its holes. The lugs are drawn as thin slices, each a little deeper
+than the last, so the depth runs smoothly from the case down into the band when the watch tilts.
+
 **Dial print.** *Settings → Dial print* switches the watch between the modern Selene type and a classic print: a
 heavy sans name over a gold serif line, with darker LCD ghosting. Both keep the original's spec lines under the
 display (yellow water rating, blue function line, small origin mark).
